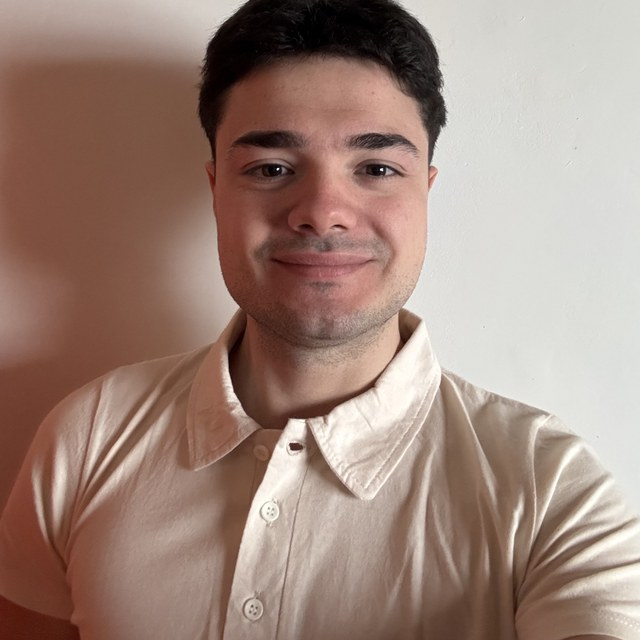
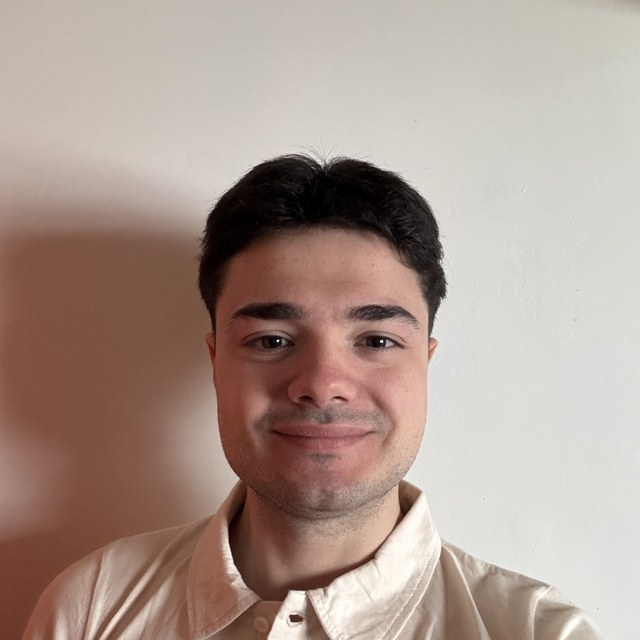
Sacar tarjeta de telefono, recortar mejor la foto y oscurecer los eyebrows
- Quitar la tarjeta de contacto Telefono (ya esta el mismo numero en WhatsApp)
- Recortar la foto del hero mas abajo para no cortar la frente
- Oscurecer el color de los eyebrows en modo claro para mejor contraste

diff --git a/src/components/Contact.jsx b/src/components/Contact.jsx
@@ -1,5 +1,5 @@
 import useReveal from '../hooks/useReveal.js'
-import { IconMail, IconPhone, IconWhatsapp, IconLinkedIn, IconGithub } from './Icons.jsx'
+import { IconMail, IconWhatsapp, IconLinkedIn, IconGithub } from './Icons.jsx'
 
 const CONTACTS = [
   {
@@ -7,12 +7,6 @@ const CONTACTS = [
     value: 'matiasdbruyn@gmail.com',
     href: 'mailto:matiasdbruyn@gmail.com',
     Icon: IconMail,
-  },
-  {
-    key: 'Teléfono',
-    value: '11 3569-8876',
-    href: 'tel:+541135698876',
-    Icon: IconPhone,
   },
   {
     key: 'WhatsApp',

diff --git a/src/index.css b/src/index.css
@@ -83,7 +83,11 @@ h1,h2,h3,h4{ font-family:var(--font-display); text-wrap:balance; font-weight:600
 
 .eyebrow{
   font-size:.98rem; letter-spacing:.06em; text-transform:uppercase;
-  color:var(--green-deep); font-weight:700;
+  color:#1E4531; font-weight:700;
+}
+:root[data-theme="dark"] .eyebrow{ color:var(--green-deep); }
+@media (prefers-color-scheme: dark){
+  :root:not([data-theme="light"]) .eyebrow{ color:var(--green-deep); }
 }
 
 /* ---------- Header / Nav ---------- */
